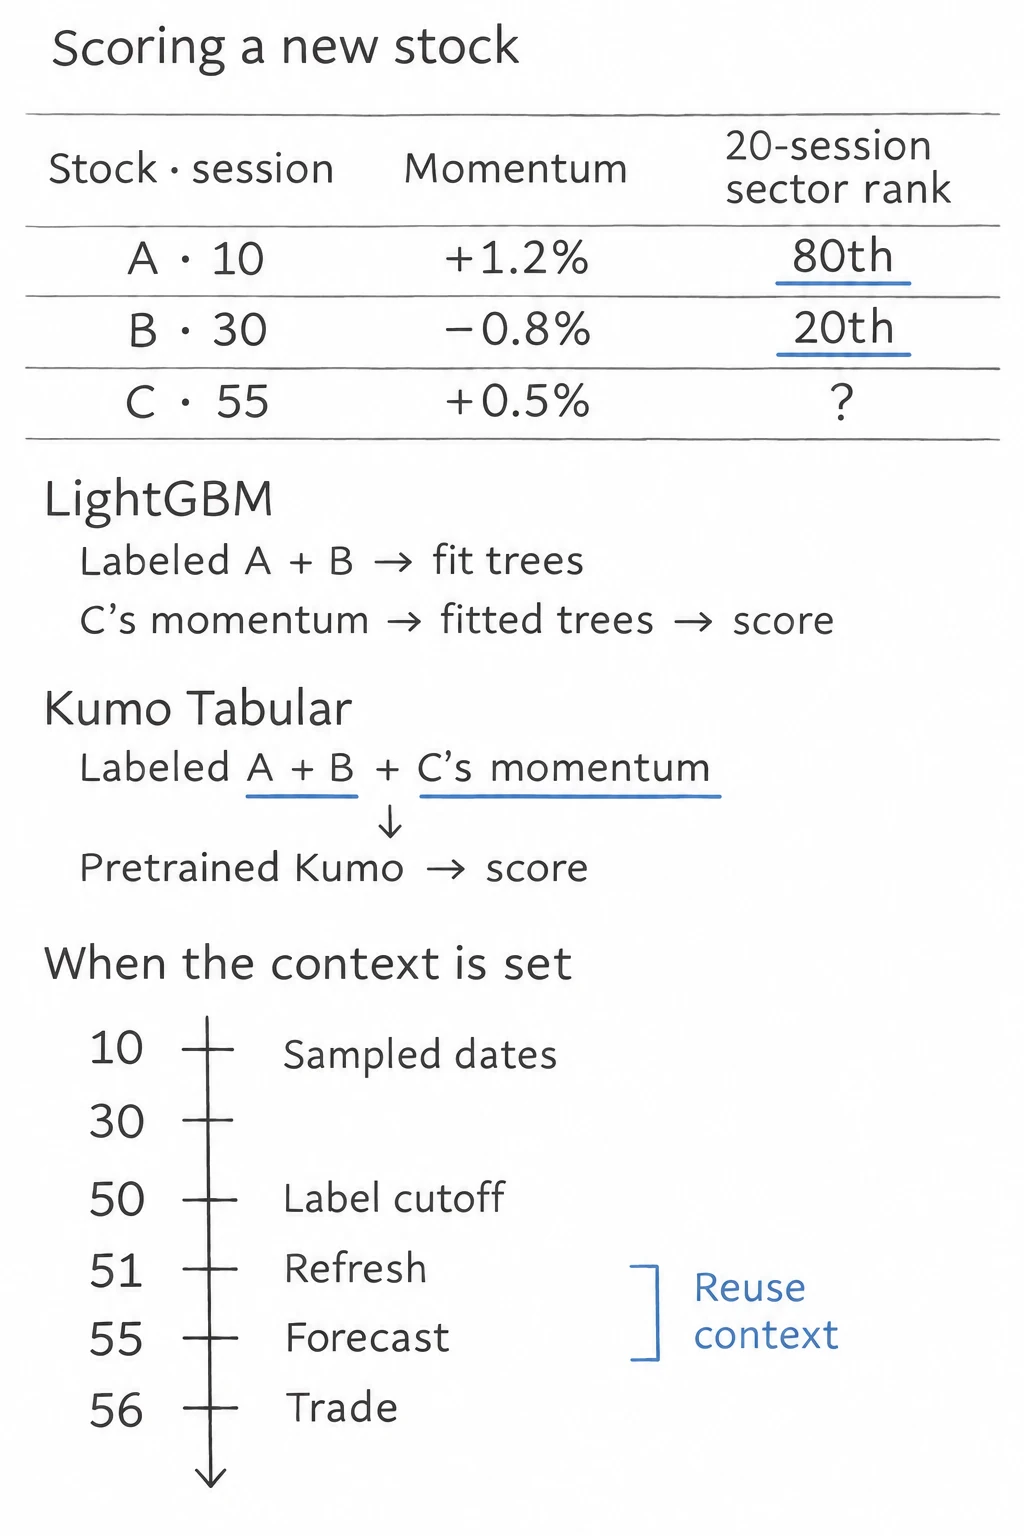
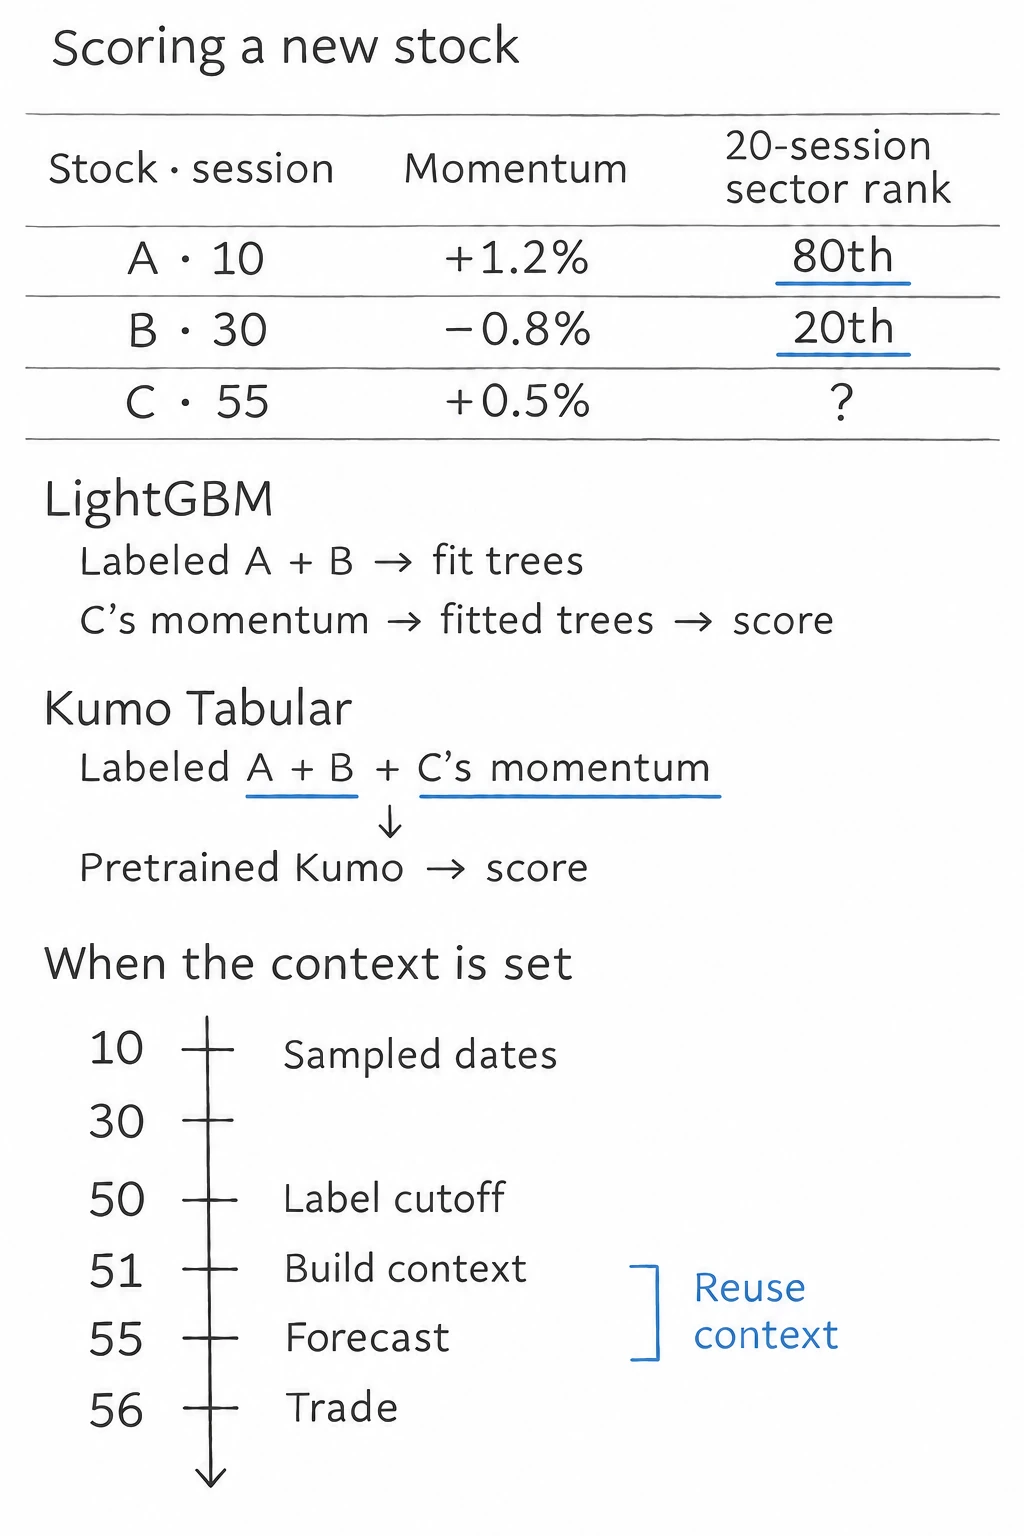
Explain tabular foundation models with two worked diagrams

diff --git a/_sass/_figures.scss b/_sass/_figures.scss
@@ -71,6 +71,56 @@ html[data-theme="dark"] .context-sampling { --selected-mark: #8bb3cc; }
   .context-sampling { grid-template-columns: 1fr; gap: 1.15rem; }
 }
 
+.model-sketch {
+  --sketch-mark: #3f6d77;
+  color: var(--ink);
+  font: 0.85rem/1.4 var(--font-sans);
+  padding: 0.2rem 0 0.45rem;
+}
+html[data-theme="dark"] .model-sketch { --sketch-mark: #91bec8; }
+.model-sketch__pair {
+  display: grid;
+  grid-template-columns: repeat(2, minmax(0, 1fr));
+  gap: 0.95rem clamp(0.9rem, 3vw, 2.25rem);
+}
+.model-sketch__label { margin-bottom: 0.35rem; font-size: 0.9rem; font-weight: 500; }
+.post-content .model-sketch table {
+  margin: 0;
+  font-size: inherit;
+  font-variant-numeric: tabular-nums;
+}
+.post-content .model-sketch :is(th, td) {
+  padding: 0.23rem 0.35rem;
+  border: 0;
+  text-align: left;
+}
+.post-content .model-sketch th {
+  color: var(--muted-ink);
+  border-bottom: 1px solid var(--rule);
+  font-weight: 500;
+}
+.model-sketch__marked { background: color-mix(in srgb, var(--sketch-mark) 11%, transparent); }
+.post-content .model-sketch__marked td:first-child {
+  box-shadow: inset 2px 0 var(--sketch-mark);
+}
+.post-content .model-sketch__query td { border-top: 1px dashed var(--sketch-mark); }
+.model-sketch__query td:last-child { color: var(--sketch-mark); font-weight: 600; }
+.model-sketch__step { margin-top: 0.5rem; color: var(--muted-ink); }
+.model-sketch__arrow { color: var(--sketch-mark); margin-right: 0.18rem; }
+.model-sketch__result { color: var(--ink); }
+.model-sketch__shared-step {
+  border-top: 1px solid var(--rule);
+  margin-top: 0.6rem;
+  padding-top: 0.5rem;
+  text-align: center;
+}
+@media (max-width: 27rem) {
+  .post-content .model-sketch :is(th, td) { padding-inline: 0.22rem; }
+}
+@media (max-width: 23rem) {
+  .model-sketch__pair { grid-template-columns: 1fr; }
+}
+
 .post-content .portfolio-path-figure { overflow: visible; scroll-margin-top: 1.25rem; }
 @media (min-width: 72rem) {
   .e-content > :is(.portfolio-path-figure, .regime-comparison-figure, .decile-profile-figure) { width: calc(100% + 5rem); }

diff --git a/_includes/equity-delivery-context-sketch.html b/_includes/equity-delivery-context-sketch.html
@@ -1,0 +1,33 @@
+{% assign past_deliveries = "6 km|14:00|20,8 km|16:45|25,9 km|17:00|35" | split: "," %}
+{% assign approaches = "k-nearest neighbors|Foundation model" | split: "|" %}
+<div class="model-sketch" role="img" aria-label="For a new 8 km order at 17:00, two-nearest-neighbor regression averages the two closest past times, 25 and 35 minutes, to give 30 minutes. The tabular foundation model uses all three labeled deliveries as context. The new order's delivery time is unknown in both cases.">
+  <div class="model-sketch__pair" aria-hidden="true">
+    {% for approach in approaches %}
+      {% assign nearest = forloop.first %}
+      <div>
+        <div class="model-sketch__label">{{ approach }}</div>
+        <table>
+          <thead><tr><th>Distance</th><th>Start</th><th>Minutes</th></tr></thead>
+          <tbody>
+            {% for delivery in past_deliveries %}
+              <tr{% if nearest == false or forloop.first == false %} class="model-sketch__marked"{% endif %}>
+                {% assign cells = delivery | split: "|" %}
+                {% for cell in cells %}<td>{{ cell }}</td>{% endfor %}
+              </tr>
+            {% endfor %}
+            <tr class="model-sketch__query"><td>8 km</td><td>17:00</td><td>?</td></tr>
+          </tbody>
+        </table>
+        <div class="model-sketch__step">
+          {% if nearest %}
+            <span class="model-sketch__arrow">↓</span> Average the two nearest
+            <div class="model-sketch__result">(25 + 35) / 2 = 30 min</div>
+          {% else %}
+            <span class="model-sketch__arrow">↓</span> Use all three as context
+            <div class="model-sketch__result">Predict the missing time</div>
+          {% endif %}
+        </div>
+      </div>
+    {% endfor %}
+  </div>
+</div>

diff --git a/_includes/equity-synthetic-pretraining-sketch.html b/_includes/equity-synthetic-pretraining-sketch.html
@@ -1,0 +1,26 @@
+{% assign tasks = "One predictor matters|4|8,Both predictors matter|7|11" | split: "," %}
+<div class="model-sketch" role="img" aria-label="Two synthetic tasks have the same predictors and different outcomes. In the first table the outcome is twice the first predictor. In the second table it also increases by three when the second predictor is one. The network predicts the hidden outcomes, then the training loss compares those predictions with the known values of 8 and 11 to update the network weights.">
+  <div aria-hidden="true">
+    <div class="model-sketch__pair">
+      {% for task in tasks %}
+        {% assign example = task | split: "|" %}
+        <div>
+          <div class="model-sketch__label">{{ example[0] }}</div>
+          <table>
+            <thead><tr><th>x₁</th><th>x₂</th><th>Outcome</th></tr></thead>
+            <tbody>
+              <tr><td>1</td><td>0</td><td>2</td></tr>
+              <tr><td>2</td><td>1</td><td>{{ example[1] }}</td></tr>
+              <tr><td>3</td><td>0</td><td>6</td></tr>
+              <tr class="model-sketch__query"><td>4</td><td>1</td><td>?</td></tr>
+            </tbody>
+          </table>
+          <div class="model-sketch__step">
+            <span class="model-sketch__arrow">↓</span> Check against {{ example[2] }}
+          </div>
+        </div>
+      {% endfor %}
+    </div>
+    <div class="model-sketch__result model-sketch__shared-step">Use the errors to update one network</div>
+  </div>
+</div>

diff --git a/_posts/2026-11-21-equity-model-comparison.md b/_posts/2026-11-21-equity-model-comparison.md
@@ -10,20 +10,24 @@ article_label: Signals · Tabular models
 permalink: /quants/equity-model-comparison.html
 ---
 
-For years, random forests and boosted trees like LightGBM were
-hard to beat on tabular data.[^tree-benchmark] More recently,
-tabular foundation models such as TabPFN and TabICL have been
-beating tuned tree ensembles on a range of
-benchmarks.[^new-benchmarks] They can also handle much larger
-tables than the early versions could.[^larger-tables]
+For years, a random forest or a boosted tree model like LightGBM
+was where I’d start with a new table.[^tree-benchmark] I started
+paying attention to tabular foundation models when I saw TabPFN
+and TabICL beat tuned tree ensembles on
+benchmarks.[^new-benchmarks]
 
-I wanted to see whether that progress would carry over to stock
-ranking. I give a tabular foundation model, Ridge and LightGBM
-the same predictors and compare their rankings. Then I use those
-rankings to build long–short portfolios and see what survives
-position sizing and trading costs.
+Once these models could handle bigger tables, I wanted to try one
+on stocks.[^larger-tables] I give it the same predictors as Ridge
+and LightGBM and compare how well they rank the stocks. Then I turn
+each ranking into a long–short portfolio to see which differences
+matter after trading costs.
 
 ## A pretrained model for tables
+
+I’m still getting to know these models. What helped me was to follow
+the historical examples through a single prediction. For a deeper
+treatment, I’d recommend Christoph Molnar’s excellent
+[*Tabular Foundation Models*](https://tabularfoundationmodels.com/).
 
 ### What the model needs to make a prediction
 
@@ -32,13 +36,11 @@ Suppose I want to predict how long an 8 km delivery will take at
 day and actual delivery time for each one. For the new order,
 I know the distance and time of day. The delivery time is blank.
 
-With LightGBM, I use the completed deliveries to fit a set of
-trees. A tree can learn to use a different estimate for short
-and long trips, or to use the time of day for some trips. Once
-the trees are fitted, I can give them the new order’s predictors
-and get an estimate. I’d have to fit the trees again for new delivery
-records to change that estimate. Ridge works the same way in this
-respect. The fitted coefficients carry forward what it learned.
+With LightGBM, I use `fit()` to build trees from the completed
+deliveries. Once I have those trees, `predict()` only needs the new
+order’s distance and time of day. Whatever the model learned from
+the earlier deliveries is already in the trees. In Ridge, the
+fitted coefficients play that role.
 
 Think about k-nearest neighbors. To predict the new order’s
 delivery time, it looks up past orders with similar distances
@@ -49,39 +51,62 @@ their delivery times are still part of making the prediction.
 A tabular foundation model also gets the past deliveries and
 their known outcomes at prediction time. Those rows are its
 *context*. With k-nearest neighbors, I choose what counts as
-a similar trip. The network has already learned how to weigh
-information from the examples. It can pick up, for instance,
-that rush hour matters more for long trips.
+a similar trip. The network has already learned how to combine
+information from the examples.
+
+Figure 1 shows what each approach brings into the prediction for
+the same new order.
+
+<figure id="figure-1" class="research-figure responsive-figure">
+  {% include equity-delivery-context-sketch.html %}
+  <figcaption class="figure-caption"><span class="caption-number">Figure 1.</span> <span class="caption-title">Two ways to use the past deliveries.</span> Marked rows feed the prediction. The dashed line separates the new order from the completed deliveries.</figcaption>
+</figure>
+
+Inside the network, the new order and the historical examples
+become vectors it can compare. Through *attention*, the
+representation of the new order picks up information from the
+examples. One comparison might bring in useful information about
+similar distances. Another might help it pick up that rush hour
+matters more for long trips. The network turns the resulting
+representation into an estimate for the missing delivery time.
 
 If I give the same network a different city’s deliveries, the
 same order can get a different estimate. The network weights
 stay fixed. That’s *in-context learning*.
 
-The code can look like the same two calls, `fit()` and
-`predict()`. With LightGBM, `fit()` builds the trees.
-With a pretrained network, it can store or prepare the examples
-the network will use during `predict()`. Christoph Molnar uses
+Tabular foundation models can still use the familiar `fit()` and
+`predict()` calls. Here, `fit()` can prepare the examples that
+`predict()` will use, with the network weights fixed. Molnar uses
 the k-nearest-neighbors analogy and shows what each model needs
 when it predicts in
 [*Tabular Foundation Models*, Chapter 4](https://tabularfoundationmodels.com/prediction#tfms-do-in-context-learning).
 
 ### Pretraining across many tables
 
-The network learns to use examples by solving many prediction
-problems before it sees a table like the delivery data. In each
-practice table, some rows come with outcomes and others have blanks.
-The network tries to fill the blanks, and the errors update its weights.
+Many tabular foundation models are pretrained on synthetic data.
+A generator makes tables with different relationships between
+predictors and outcomes. In one table, a single predictor might
+explain most of the outcome. In another, the effect of one
+predictor might depend on a second.
 
-The practice tables can be generated. In one table, the first
-predictor might explain most of the outcome. In another, two
-predictors might matter together. The rule changes from one table
-to the next, so the network has to use the labeled rows to work
-out what matters in each table. That is the skill it brings to
-a new dataset.
+Figure 2 shows two such practice tables. The inputs are the same,
+but the generator has used a different rule to produce the outcomes
+in each table. The network sees some outcomes and tries to predict
+the missing ones. The training procedure knows the hidden outcomes
+and uses the resulting errors to update the network’s weights.
+
+<figure id="figure-2" class="research-figure responsive-figure">
+  {% include equity-synthetic-pretraining-sketch.html %}
+  <figcaption class="figure-caption"><span class="caption-number">Figure 2.</span> <span class="caption-title">Two prediction tasks during pretraining.</span> Errors on the hidden outcomes update the same network.</figcaption>
+</figure>
+
+As the rules change from table to table, the useful skill is
+working out what matters from the labeled examples. Once trained,
+the network can use that skill on a new table with its weights fixed.
 Molnar shows how those tables are generated in
 [*Tabular Foundation Models*, Chapter 5](https://tabularfoundationmodels.com/pretraining).
 
-### The Bayesian intuition
+### How an example changes the forecast
 
 Go back to the deliveries and imagine two possible rules. Under
 the first, long routes usually take a long time. Under the second,
@@ -111,12 +136,13 @@ develops the idea from [Müller et al.](https://openreview.net/forum?id=KSugKcbN
 
 ### What the model could know on each date
 
-I chose NVIDIA’s Kumo Tabular, which was pretrained entirely on
-generated tables
+I picked NVIDIA’s Kumo Tabular for the stock test. NVIDIA
+pretrained it entirely on synthetic data
 ([Qu et al., *NVIDIA Kumo Tabular*, §3](https://arxiv.org/html/2611.23001v1#S3)).
-I keep its weights fixed. On each forecast date, it gets that
-day’s predictors and a context of historical stock rows whose
-20-session outcomes were known at the last refresh.
+Each time I ask Kumo for a ranking, it sees the stock predictors
+for that day alongside examples from the past. I only include
+a past example once I know how the stock did over the following
+20 trading sessions.
 
 ### Research setup
 
@@ -128,8 +154,8 @@ I describe how I build the target and predictors in
 [*Combining Multiple Predictors: The Linear Case*]({% link _posts/2025-02-09-combining-predictors.md %}#what-i-ask-the-model-to-predict).
 
 Ridge and LightGBM fit on past data and score the dates that follow.
-I refresh Kumo’s context on the LightGBM refit dates. For Kumo,
-I test Small and Medium with expanding histories, where the pool
+I put together a new set of examples for Kumo whenever I fit
+LightGBM again. I test Small and Medium with expanding histories, where the pool
 of examples grows from the same January 1995 start. I also test
 Rolling Small, which keeps only recent history. The test runs from
 1999 through May 27, 2026. I show 2022 onward separately to see
@@ -148,22 +174,23 @@ giving different trees a chance to split on different inputs.
 
 ### A stock forecast with historical context
 
-Figure 1 uses momentum alone to show how both models score stock C on
+Figure 3 uses momentum alone to show how both models score stock C on
 session 55. LightGBM fits trees on historical rows A and B and scores C
 by following its momentum through those trees. With Kumo, `fit()`
 prepares and caches information from A and B, and `predict()` uses
 that context alongside C’s momentum. C’s outcome is still unknown.
 
-<figure id="figure-1" class="research-figure responsive-figure stock-scoring-figure">
+<figure id="figure-3" class="research-figure responsive-figure stock-scoring-figure">
   <picture>
-    <source media="(max-width: 600px)" srcset="{{ '/assets/equity-model-comparison/in-context-sketch-mobile.webp' | relative_url }}" width="1024" height="1536">
-    <img src="{{ '/assets/equity-model-comparison/in-context-sketch.webp' | relative_url }}" width="1536" height="1024" loading="lazy" decoding="async" alt="LightGBM fits trees on labeled stocks A and B, then scores C from its momentum. Kumo scores C with A and B as context. The label cutoff is session 50, the context refresh is 51, the forecast is 55, and the simulated trade is 56.">
+    <source media="(max-width: 600px)" srcset="{{ '/assets/equity-model-comparison/in-context-sketch-mobile.webp' | relative_url }}?v=2" width="1024" height="1536">
+    <img src="{{ '/assets/equity-model-comparison/in-context-sketch.webp' | relative_url }}?v=2" width="1536" height="1024" loading="lazy" decoding="async" alt="LightGBM fits trees on labeled stocks A and B, then scores C from its momentum. Kumo scores C with A and B as context. Outcomes must be known by session 50. The context is built on 51, the forecast is on 55, and the simulated trade is on 56.">
   </picture>
-  <figcaption class="figure-caption"><span class="caption-number">Figure 1.</span> <span class="caption-title">How LightGBM and Kumo score a stock.</span> The sketch draws on Christoph Molnar’s explanation of prediction inputs in <a href="https://tabularfoundationmodels.com/prediction#fig-input-output"><em>Tabular Foundation Models</em>, Figure 4.2</a>.</figcaption>
+  <figcaption class="figure-caption"><span class="caption-number">Figure 3.</span> <span class="caption-title">How LightGBM and Kumo score a stock.</span> The sketch draws on Christoph Molnar’s explanation of prediction inputs in <a href="https://tabularfoundationmodels.com/prediction#fig-input-output"><em>Tabular Foundation Models</em>, Figure 4.2</a>.</figcaption>
 </figure>
 
 B is sampled at session 30, so its outcome is known at session 50.
-It can enter the context refreshed on 51 and help score C on 55.
+I can include B when I put the examples together on session 51
+and use those same examples to score C on 55.
 The simulated trade takes place at the next close.
 
 ### How Kumo turns the examples into a score
@@ -219,12 +246,12 @@ Keeping the lowest and highest 20% of their training outcomes cut
 backtest time by roughly 60% and gave a similar return spread
 between the highest- and lowest-ranked portfolios.
 
-Figure 2 uses two illustrative grids. Sampling every 20 sessions
+Figure 4 uses two illustrative grids. Sampling every 20 sessions
 keeps four dates, and sampling every 30 keeps three. The tails filter
 keeps six of the ten stocks on each selected date, leaving 24 or 18
 labeled rows.
 
-<figure id="figure-2" class="research-figure responsive-figure">
+<figure id="figure-4" class="research-figure responsive-figure">
   <div class="context-sampling" role="img" aria-label="The 20-session grid selects historical sessions 0, 20, 40 and 60. The 30-session grid selects 0, 30 and 60. On each selected date, ten stocks are sorted by the realized prediction target. The lowest three and highest three are kept, and the middle four are skipped.">
     <div aria-hidden="true">
       <div class="context-sampling-heading">Historical dates</div>
@@ -266,10 +293,10 @@ labeled rows.
       </div>
     </div>
   </div>
-  <figcaption class="figure-caption"><span class="caption-number">Figure 2.</span> <span class="caption-title">Which historical rows enter Kumo’s context.</span> Filled marks show the dates and stocks selected in this example.</figcaption>
+  <figcaption class="figure-caption"><span class="caption-number">Figure 4.</span> <span class="caption-title">Which historical rows enter Kumo’s context.</span> Filled marks show the dates and stocks selected in this example.</figcaption>
 </figure>
 
-At each context refresh, as in Figure 1, I apply these cuts to the
+When I put together a set of examples, I apply these cuts to the
 history with known outcomes. The portfolios have three staggered
 signal calendars, each with a rebalance roughly every three weeks.
 Even with six weeks between historical examples, Kumo can score
@@ -295,7 +322,7 @@ each model orders the stocks. For a signal date with known outcomes,
 I rank the model scores and the realized outcomes for the same stocks,
 then correlate the two ranks. That Spearman correlation is the
 information coefficient, or $\mathrm{IC}_t$.
-Figure 3 shows its mean, sample standard deviation and their ratio
+Figure 5 shows its mean, sample standard deviation and their ratio
 across signal dates. The ratio is left unannualized.
 
 $$
@@ -303,9 +330,9 @@ $$
                       {\operatorname{sd}_t(\mathrm{IC}_t)}
 $$
 
-<figure id="figure-3" class="research-figure responsive-figure">
+<figure id="figure-5" class="research-figure responsive-figure">
   {% include blog-chart.html chart="rank" source="/assets/equity-model-comparison/rank-metrics.json?v=5" base="/assets/equity-model-comparison/rank-metrics" mobile="/assets/equity-model-comparison/rank-metrics_mobile" version="6" label="Bar plots for rank IC, standard deviation of IC and ICIR by model through May 2026, with selectable periods." %}
-  <figcaption class="figure-caption"><span class="caption-number">Figure 3.</span> <span class="caption-title">Rank metrics by period.</span> Each metric keeps the same scale across periods.</figcaption>
+  <figcaption class="figure-caption"><span class="caption-number">Figure 5.</span> <span class="caption-title">Rank metrics by period.</span> Each metric keeps the same scale across periods.</figcaption>
 </figure>
 
 Both expanding Kumo runs had positive mean IC over 1999–2021 and
@@ -328,9 +355,9 @@ returns, annualize using 252 sessions and use zero cash return for Sharpe.
 I use the same decile comparison for Ridge in
 [*Combining Multiple Predictors*]({% link _posts/2025-02-09-combining-predictors.md %}#figure-3).
 
-<figure id="figure-4" class="research-figure decile-profile-figure responsive-figure">
+<figure id="figure-6" class="research-figure decile-profile-figure responsive-figure">
   {% include blog-chart.html chart="profiles" source="/assets/equity-model-comparison/deciles.json?v=4" base="/assets/equity-model-comparison/scheduled-decile-profile" mobile="/assets/equity-model-comparison/scheduled-decile-profile_mobile" version="9" label="Return, volatility and Sharpe by stock score decile from 1999 through May 2026, with selectable periods and models." %}
-  <figcaption class="figure-caption"><span class="caption-number">Figure 4.</span> <span class="caption-title">Return, volatility and Sharpe by score decile.</span> Decile 10 holds the highest scores. All deciles are equal-weighted and shown before costs.</figcaption>
+  <figcaption class="figure-caption"><span class="caption-number">Figure 6.</span> <span class="caption-title">Return, volatility and Sharpe by score decile.</span> Decile 10 holds the highest scores. All deciles are equal-weighted and shown before costs.</figcaption>
 </figure>
 
 Over the full history, LightGBM’s top decile earned about 18% a year
@@ -478,16 +505,16 @@ width.
 
 ## How the P&L built up
 
-Table 1 compounds returns. Figure 5 adds up daily net P&L as a
+Table 1 compounds returns. Figure 7 adds up daily net P&L as a
 share of fixed capital, so you can see when the gaps opened and
 how deep the drawdowns were. The chart starts with each path
 visually rescaled to 7% annualized volatility in the selected
 window. Clear the checkbox to see the original paths. Open
 **Explore** to add Rolling Small.
 
-<figure id="figure-5" class="research-figure portfolio-path-figure responsive-figure">
+<figure id="figure-7" class="research-figure portfolio-path-figure responsive-figure">
   {% include blog-chart.html chart="pnl" source="/assets/equity-model-comparison/net-pnl.json?v=7" base="/assets/equity-model-comparison/net-pnl" mobile="/assets/equity-model-comparison/net-pnl_mobile" version="6" label="Cumulative net P&L and drawdown through May 2026, rescaled to 7% annualized volatility by default." %}
-  <figcaption class="figure-caption"><span class="caption-number">Figure 5.</span> <span class="caption-title">Cumulative P&amp;L and drawdown after fees.</span> These portfolios use 75 new candidates per side. I average daily P&amp;L across the three schedules and add it up. Both panels show percentages of fixed capital.</figcaption>
+  <figcaption class="figure-caption"><span class="caption-number">Figure 7.</span> <span class="caption-title">Cumulative P&amp;L and drawdown after fees.</span> These portfolios use 75 new candidates per side. I average daily P&amp;L across the three schedules and add it up. Both panels show percentages of fixed capital.</figcaption>
 </figure>
 
 LightGBM finished with the highest cumulative P&L over the full
